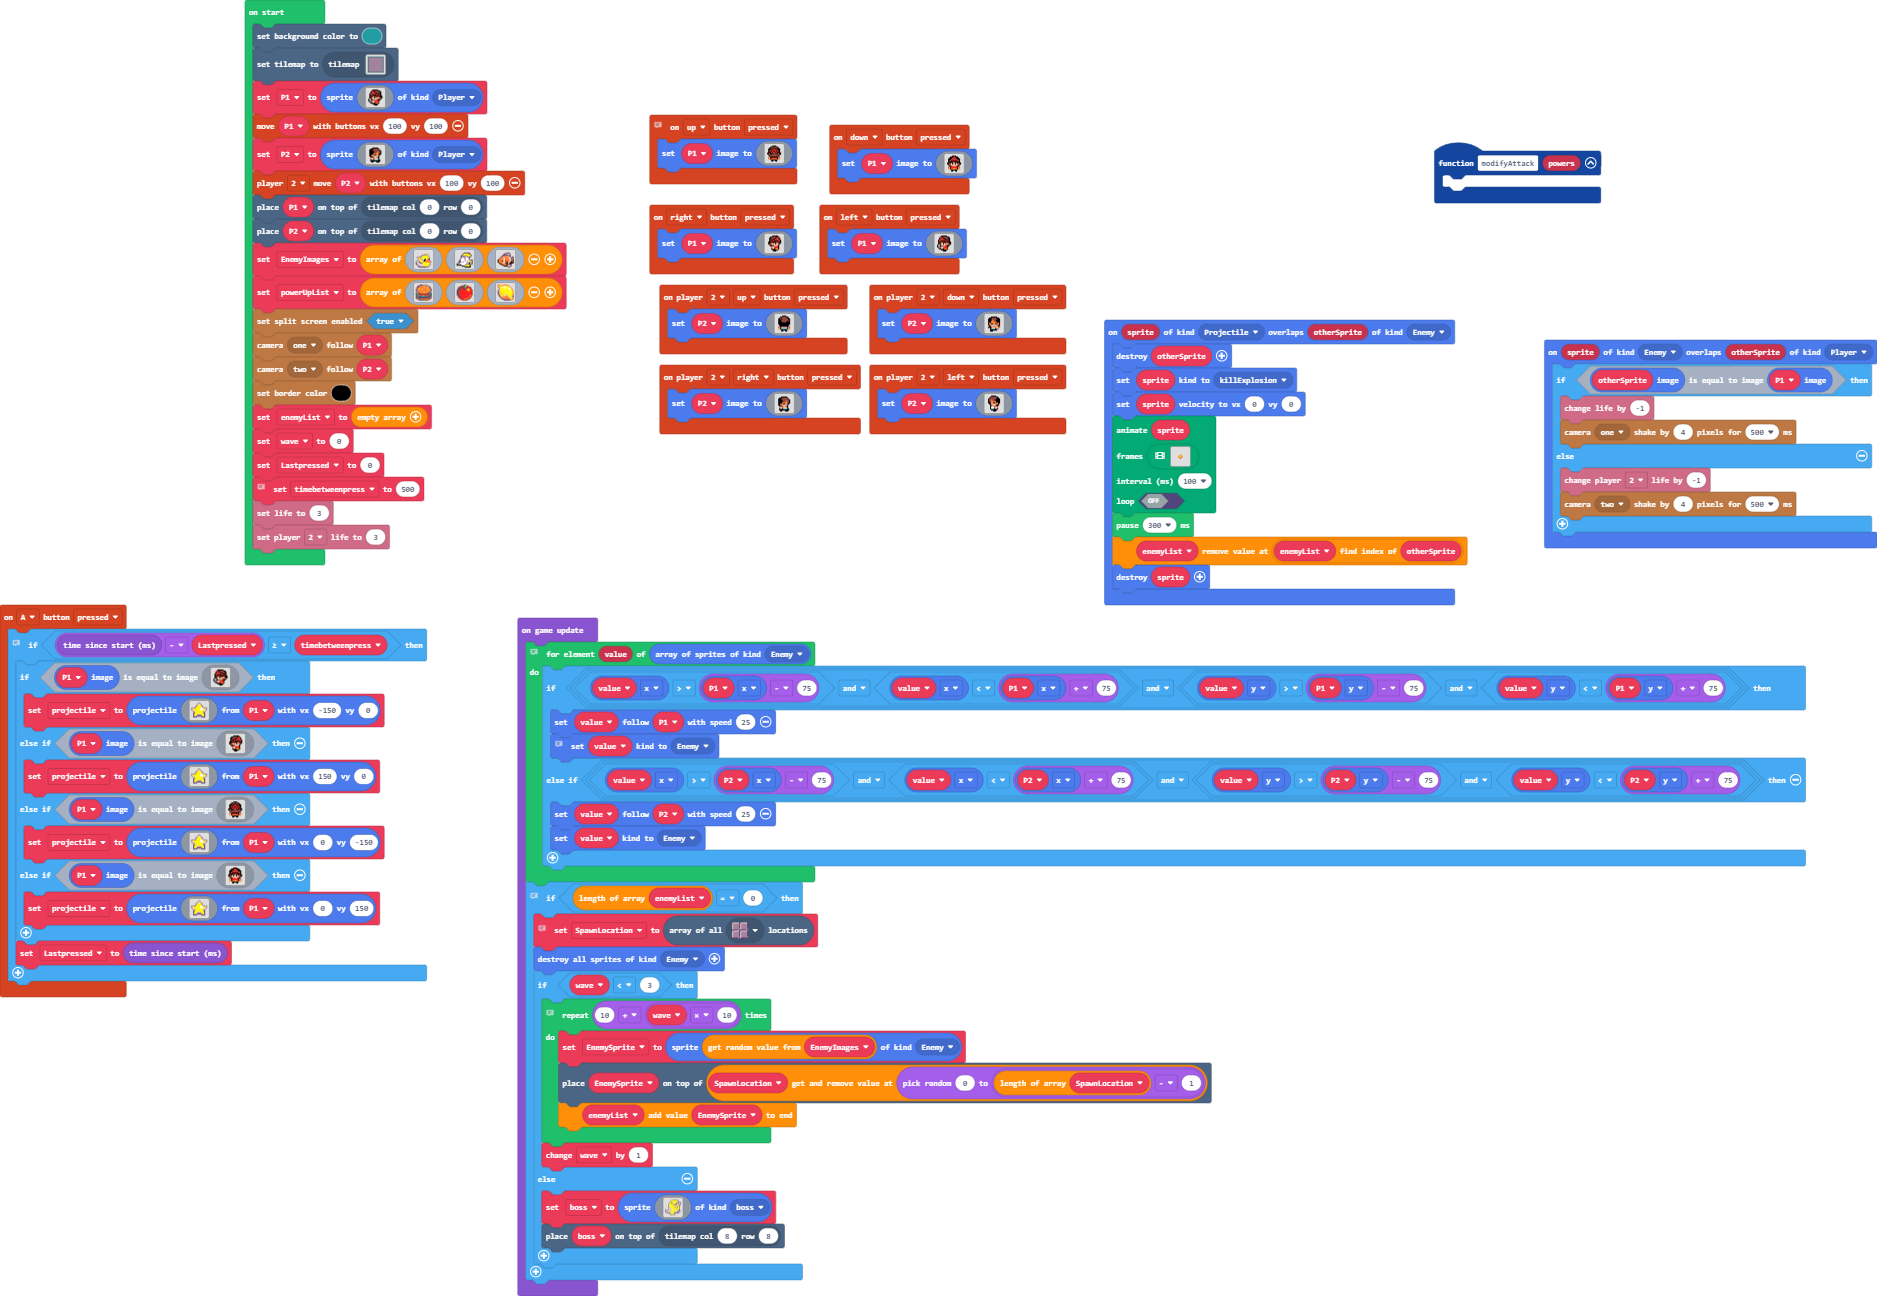
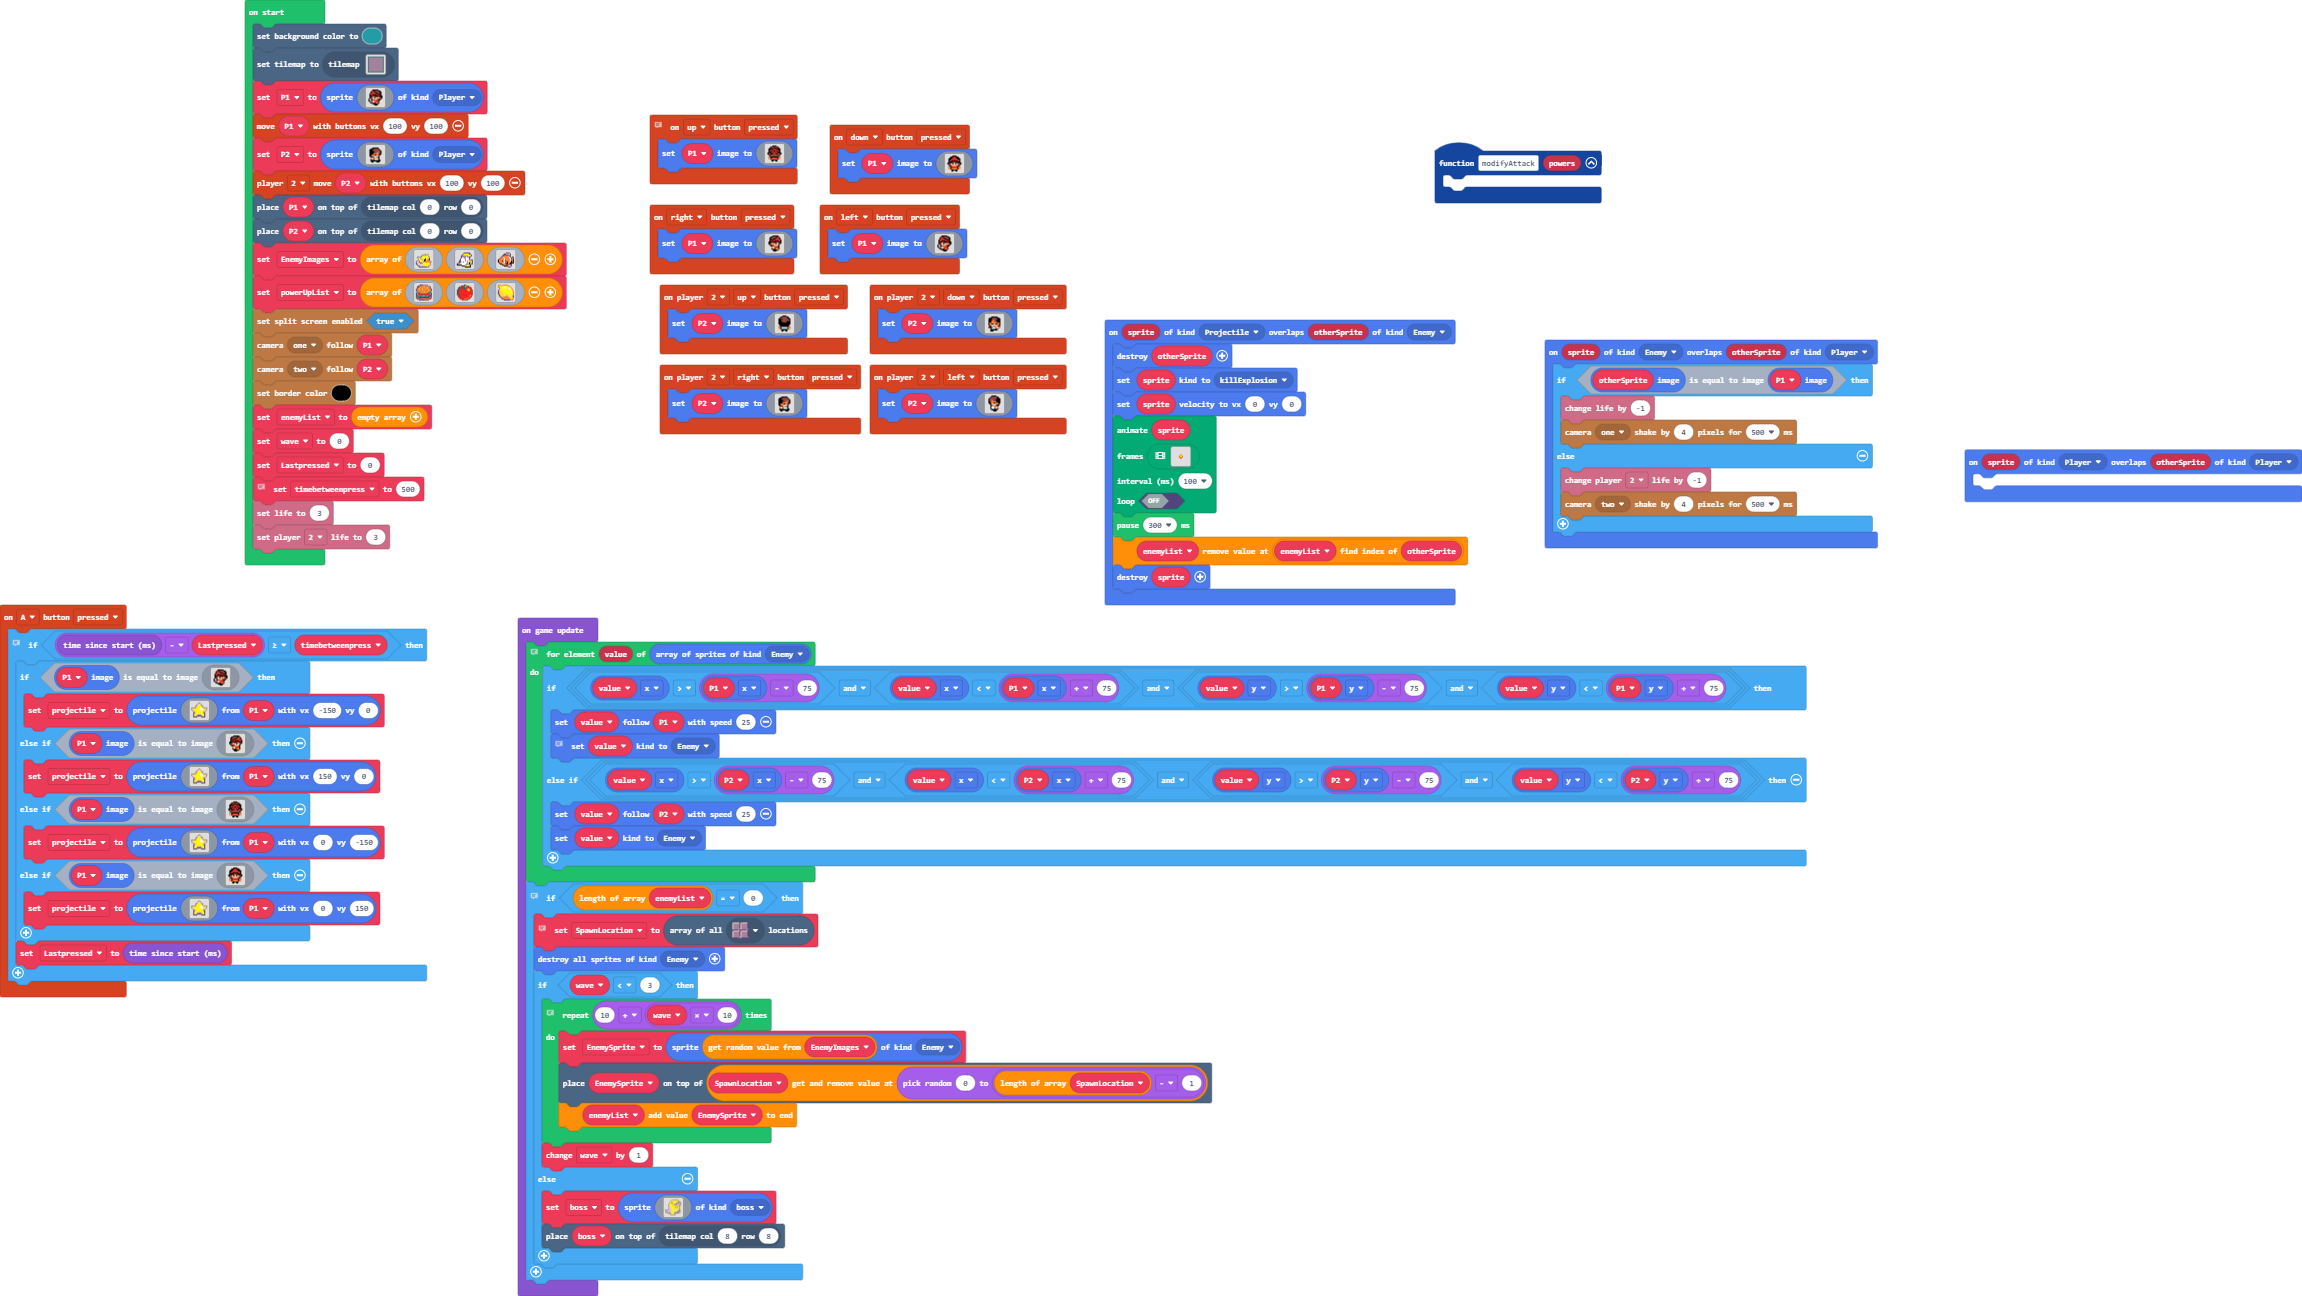
1/23 REUPLOAD

diff --git a/main.ts b/main.ts
@@ -303,6 +303,9 @@ controller.down.onEvent(ControllerButtonEvent.Pressed, function () {
         . . . . . f f . . f f . . . . . 
         `)
 })
+sprites.onOverlap(SpriteKind.Player, SpriteKind.Player, function (sprite, otherSprite) {
+	
+})
 controller.player2.onButtonEvent(ControllerButton.Left, ControllerButtonEvent.Pressed, function () {
     P2.setImage(img`
         . . . f f f f f . . . . 
